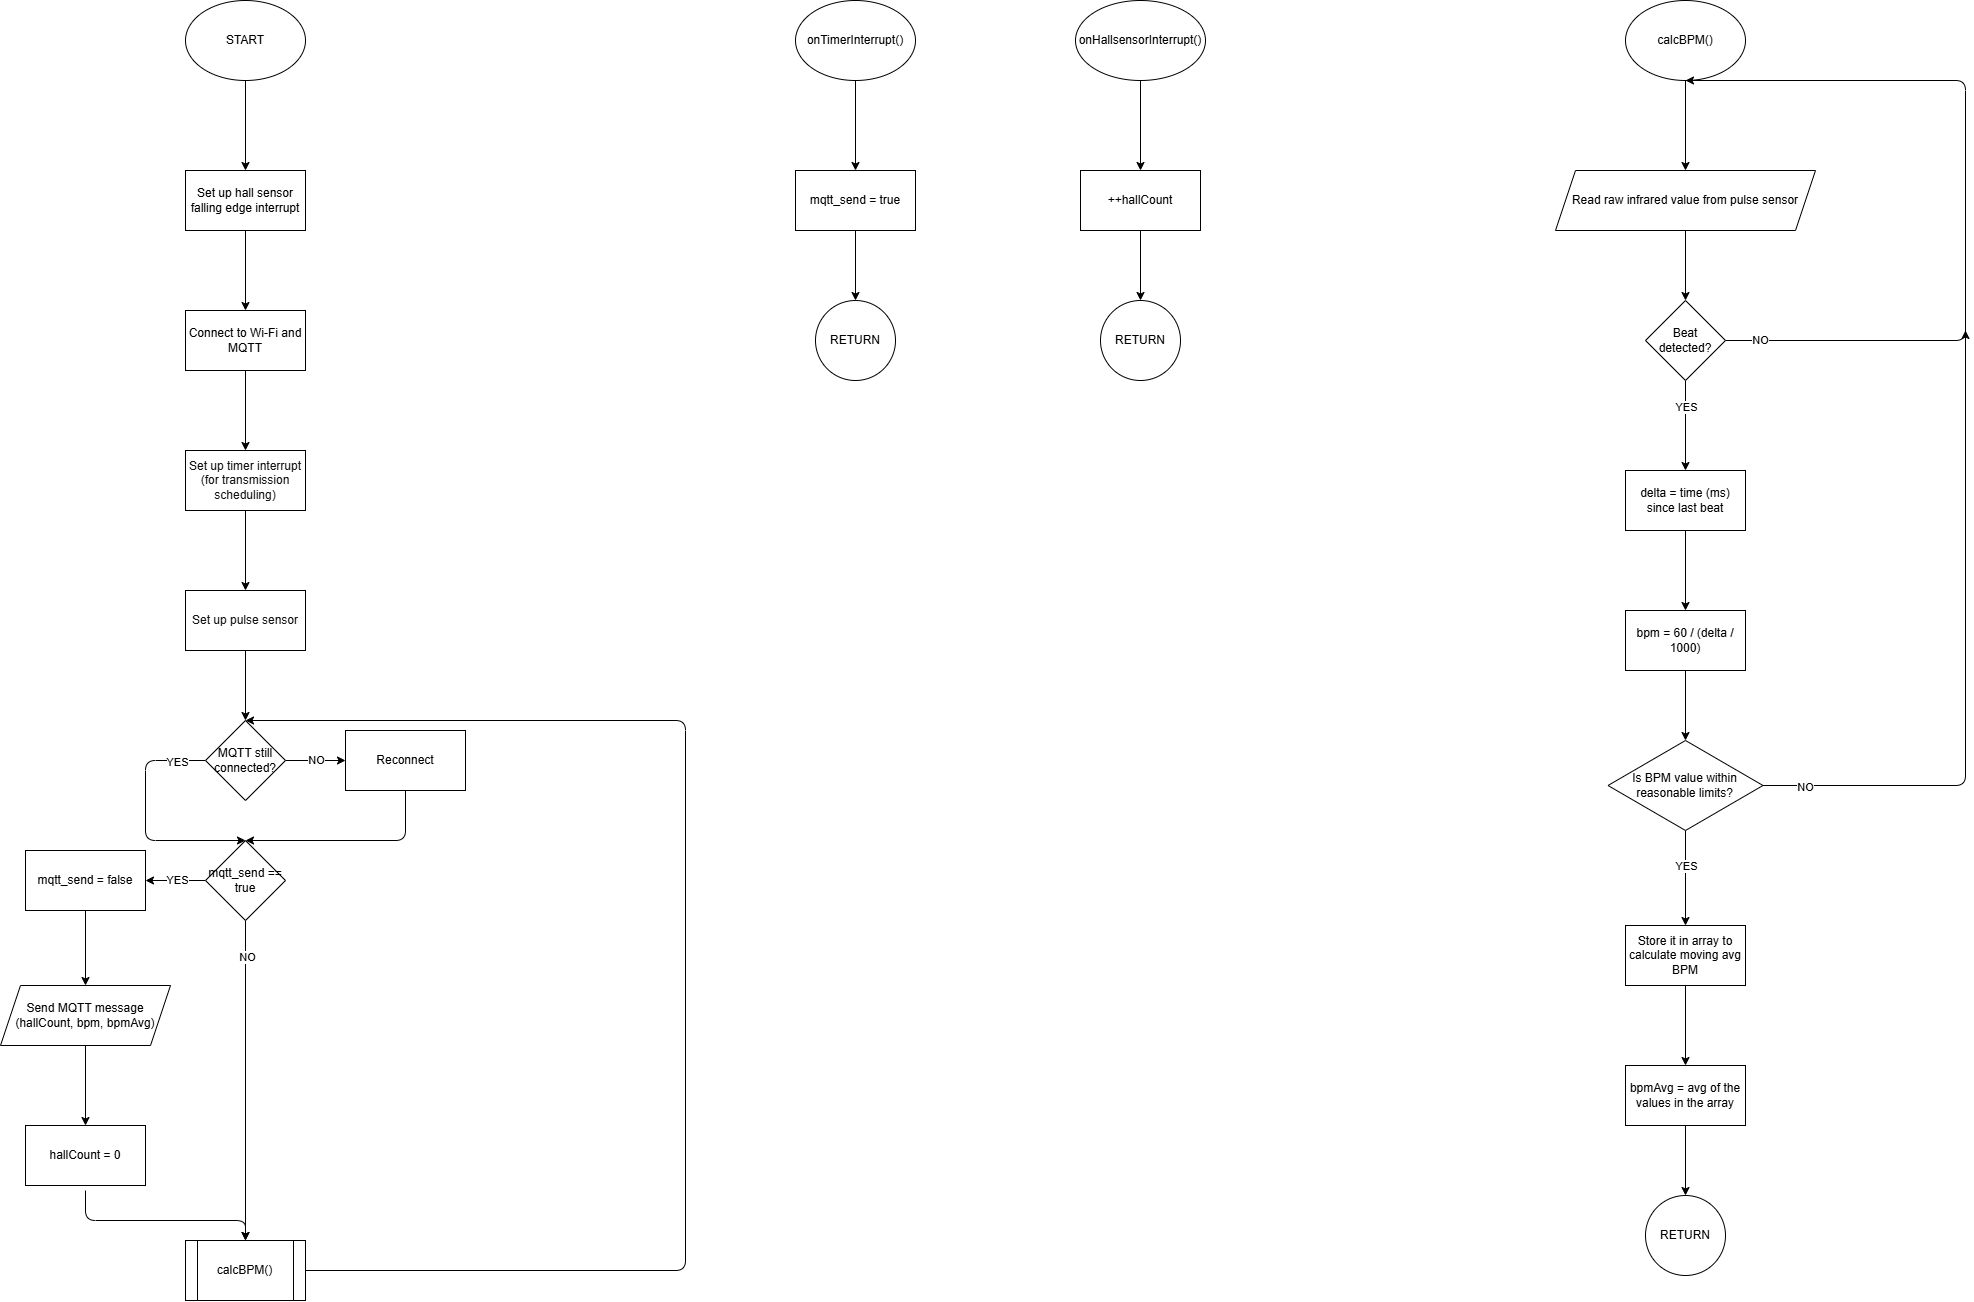
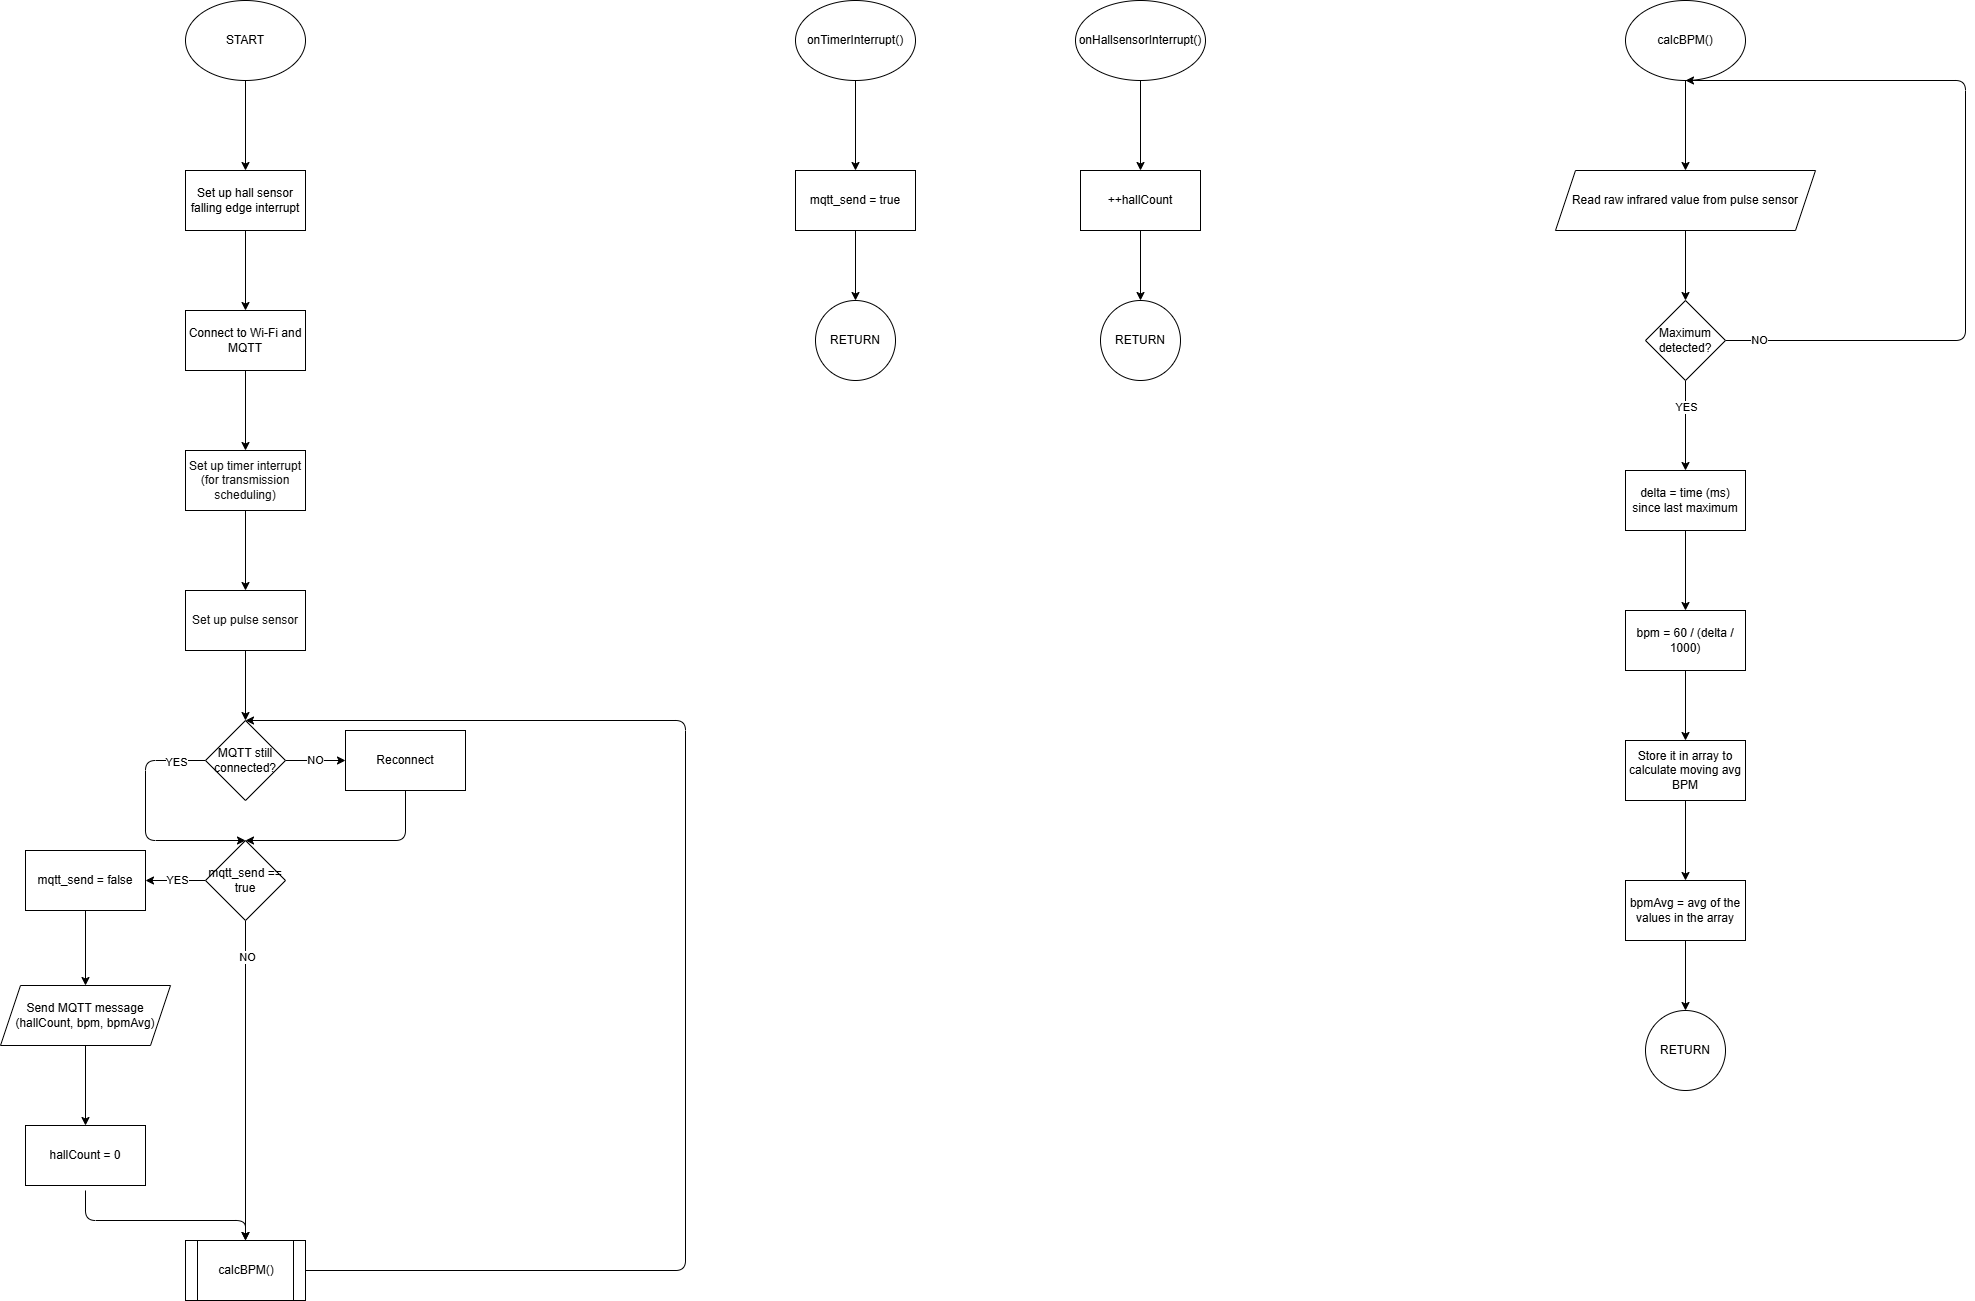
Removed redundant reading of pulse sensor in loop(). This 'stole' sensor values from calcBPM(), degrading its performance.

diff --git a/src/main.cpp b/src/main.cpp
@@ -65,7 +65,7 @@ void setup_pulseSensor() {
   }
   Serial.println("Place your index finger on the sensor with steady pressure.");
 
-  pulseSensor.setup(60, 16, 2, 1600, 411, 4096); //Configure sensor with 12mA LED current, 16-sample averaging, enable IR LED, 400Hz sample rate, 411µs pulse width (18 bit res.), 4096pA ADC range
+  pulseSensor.setup(60, 32, 2, 1600, 411, 4096); //Configure sensor with 12mA LED current, 32-sample averaging, enable IR LED, 400Hz sample rate, 411µs pulse width (18 bit res.), 4096pA ADC range
   pulseSensor.setPulseAmplitudeRed(0);  //Turn off red LED (this can't be done through setup())
 }
 
@@ -101,7 +101,6 @@ void calcBPM() {
   uint32_t irCur = pulseSensor.getIR();
   static uint32_t irPrev = irCur;
   static unsigned long lastBeat = millis();
-  const unsigned long delta = millis() - lastBeat;
   
   // Detect change in direction of the IR waveform. There are two such changes per beat.
   // Each maximum (slopes changes from up to down) counts as a beat, and the time difference
@@ -134,6 +133,8 @@ void calcBPM() {
   }
 
   irPrev = irCur;
+  Serial.print(">IR:");
+  Serial.println(irCur);
 }
 
 /*
@@ -207,6 +208,5 @@ void loop() {
   Serial.println(beatsPerMinute);
   Serial.print(">Avg BPM:");
   Serial.println(beatAvg);
-  Serial.print(">IR:");
-  Serial.println(pulseSensor.getIR());
+  //Don't read pulse sensor here. Its IR value is read and printed in calcBPM().
 }